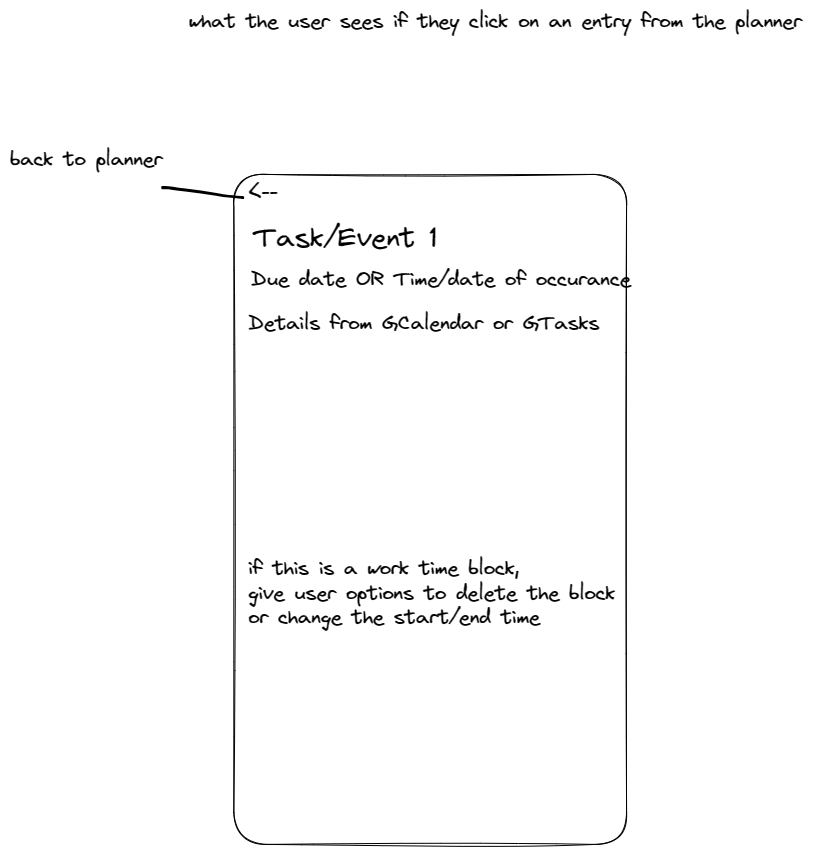
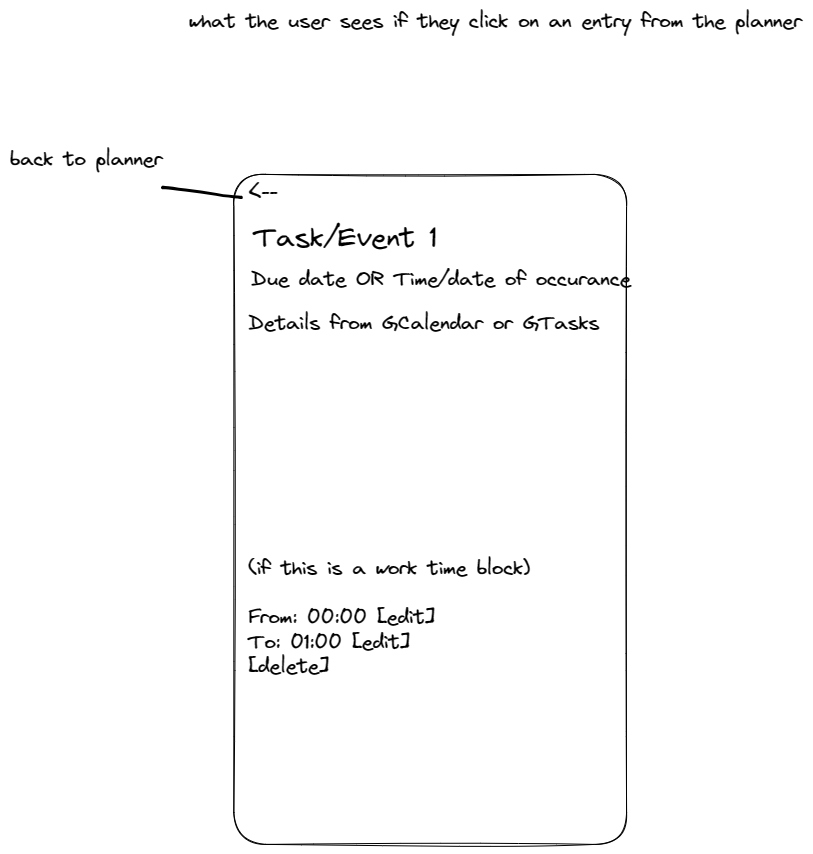
details page specs

Changed region(s): [[0.3075, 0.6393, 0.7688, 0.7916]]

diff --git a/docs/planning/specs/rescoped/Application/Event Detail Page.md b/docs/planning/specs/rescoped/Application/Event Detail Page.md
@@ -1,0 +1,27 @@
+# eventDetailPage.js
+- driver of the page where the user can find info about a given event
+
+# keep track of...
+- `event: CalendarItem`: the item in focus
+
+# actions
+- `initialize(): void`
+	- obtain the event's id (via querystring?)
+	- get the `CalendarItem` object from the GCalendar client
+	- if `event` is also a `WorkTimeBlock`, display the section for configuring duration and deletion of the block
+	- `display()`
+- `display(): void`
+	- set the `innerText` of the display elements based on the corresponding object properties
+- `updateBlockStart(): void`
+	- collect a new starting time from the user
+	- make sure it's before the ending time
+	- update `event`
+	- `display()`
+- `updateBlockEnd(): void`
+	- collect a new ending time from the user
+	- make sure it's after the starting time
+	- update `event`
+	- `display()`
+- `deleteBlock(): void`
+	- `event.delete()`
+	- return to the main planner page

diff --git a/docs/planning/specs/rescoped/Application/Task Detail Page.md b/docs/planning/specs/rescoped/Application/Task Detail Page.md
@@ -1,0 +1,13 @@
+# taskDetailPage.js
+- driver of the page where the user can find info about a given task
+
+# keep track of...
+- `task: TaskItem`: the item in focus
+
+# actions
+- `initialize(): void`
+	- obtain the task's id (via querystring?)
+	- get the `TaskItem` object from the GTasks client
+	- `display()`
+- `display(): void`
+	- set the `innerText` of the display elements based on the corresponding object properties
